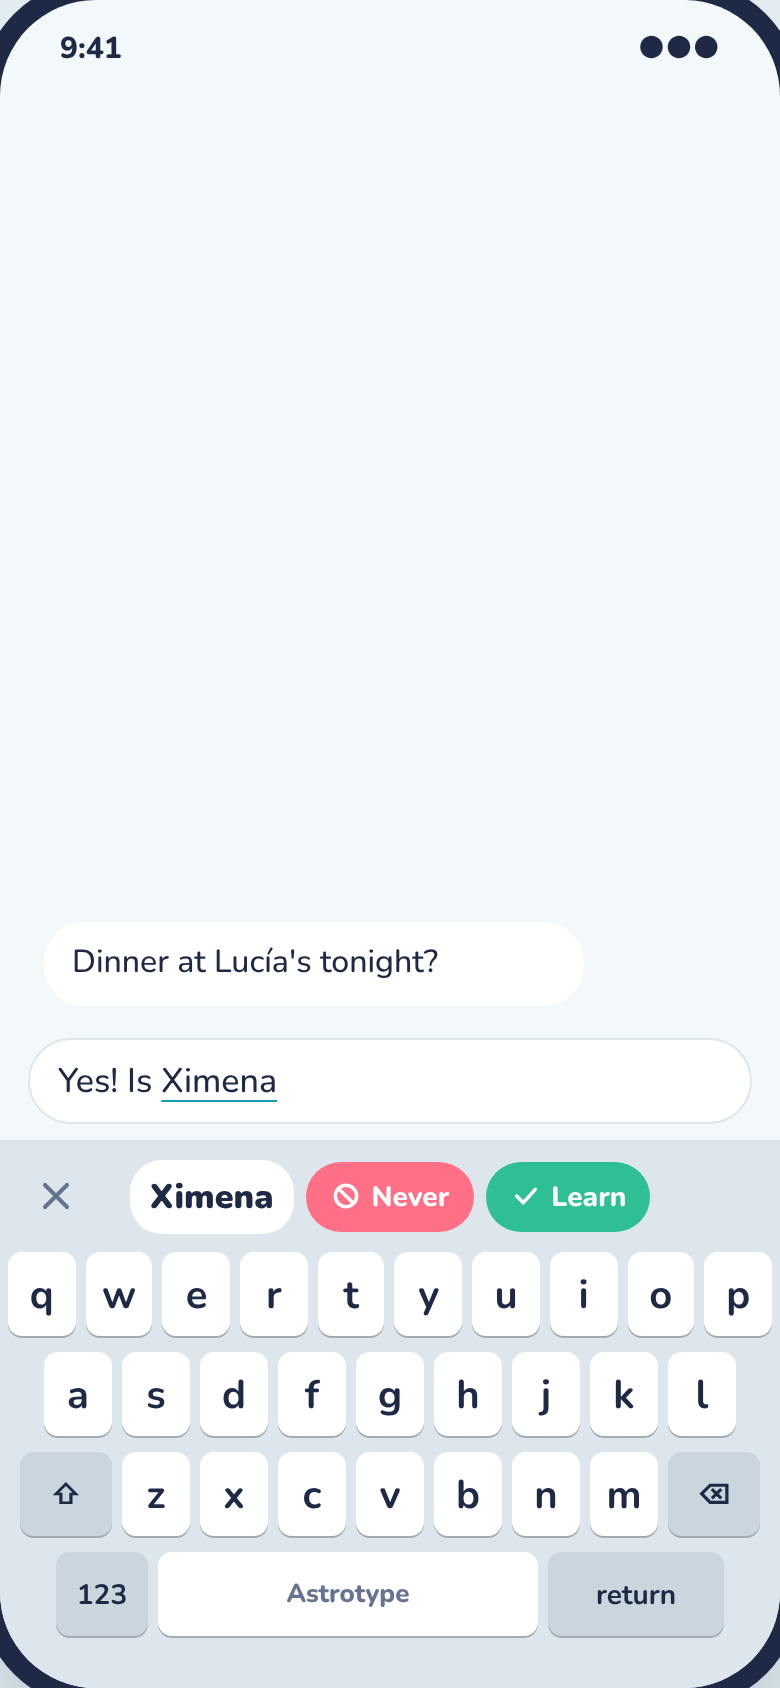
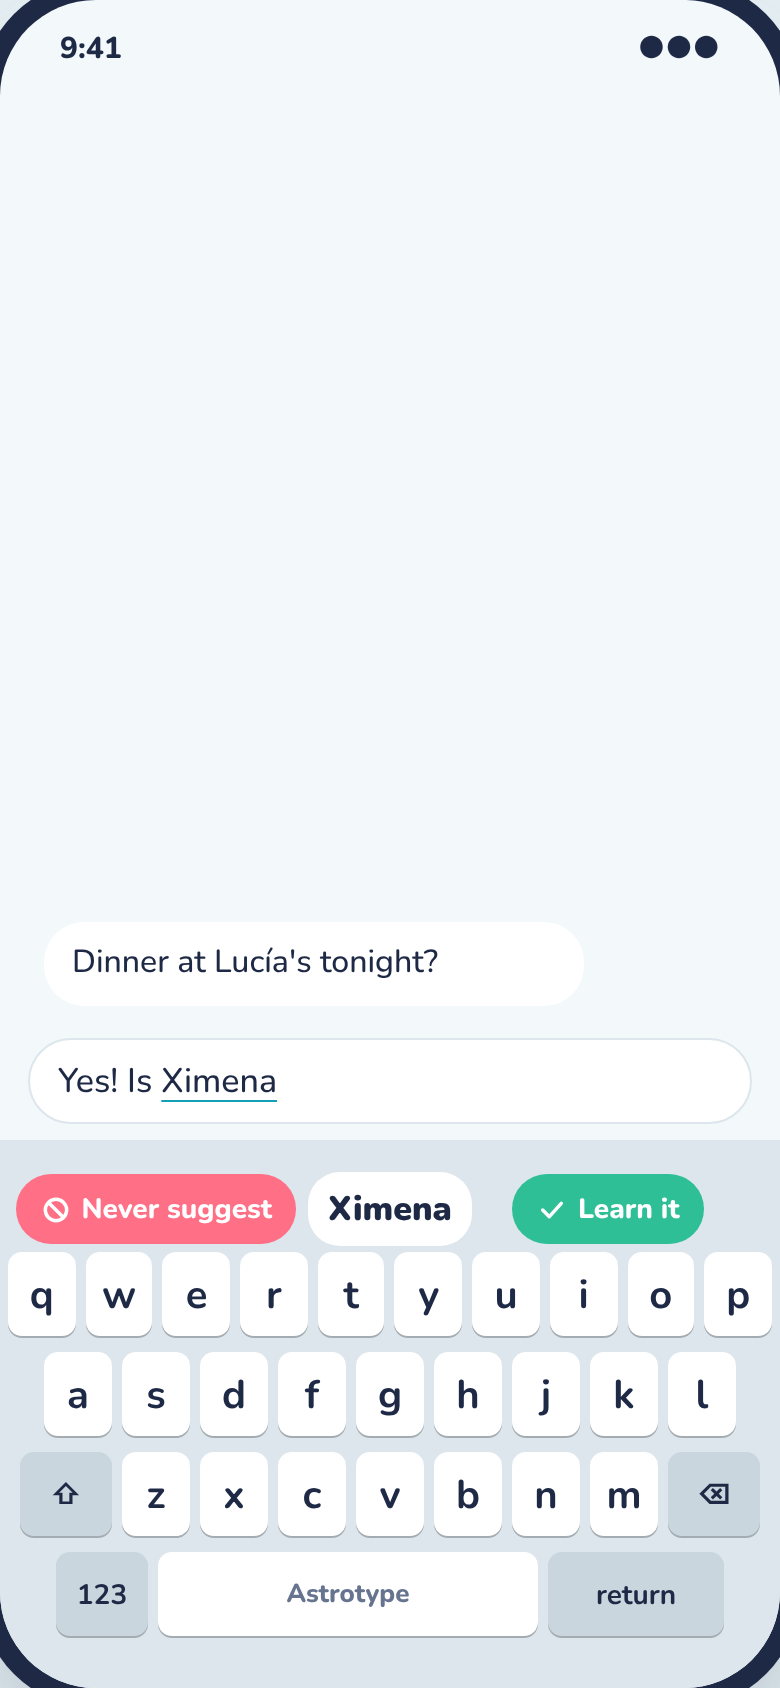
Astrotype word control: menu with the word centred, Never left, More right; plan approved
Claude-Session: https://claude.ai/code/session_01GG78N94JfcrMtKRvAs3BsG

Changed region(s): [[0.0, 0.6777, 0.9231, 0.7393]]

diff --git a/apps/astrotype/features/word-control/design/mockups/word-control.html b/apps/astrotype/features/word-control/design/mockups/word-control.html
@@ -131,8 +131,9 @@ button.r{cursor:pointer}
 .icon{width:40px;height:40px;border:0;background:transparent;border-radius:12px;display:grid;place-items:center;cursor:pointer;color:var(--muted)}
 .icon svg{width:22px;height:22px;stroke:currentColor;fill:none;stroke-width:2.2;stroke-linecap:round;stroke-linejoin:round}
 /* WordMenu (new): the bar while a guess is held */
-.wm{display:flex;align-items:center;gap:6px;min-width:0;justify-content:center;width:100%}
-.wm .word{font-weight:900;font-size:17px;padding:7px 10px;border-radius:16px;background:var(--card);white-space:nowrap;overflow:hidden;text-overflow:ellipsis;flex:0 1 auto;min-width:3.5em;max-width:40%}
+.wm{display:grid;grid-template-columns:minmax(0,1fr) auto minmax(0,1fr);align-items:center;gap:6px;min-width:0;width:100%}
+.wm .side{display:flex;min-width:0}.wm .side.l{justify-content:flex-end}.wm .side.r{justify-content:flex-start}
+.wm .word{border:0;cursor:pointer;color:var(--ink);font-weight:900;font-size:17px;padding:7px 10px;border-radius:16px;background:var(--card);white-space:nowrap;overflow:hidden;text-overflow:ellipsis;flex:0 1 auto;min-width:3.5em;max-width:9em}
 .act{display:inline-flex;align-items:center;gap:5px;border:0;border-radius:999px;font-weight:800;font-size:14px;padding:8px 12px;cursor:pointer;white-space:nowrap;flex:none}
 .act svg{width:16px;height:16px;stroke:currentColor;fill:none;stroke-width:2.6;stroke-linecap:round;stroke-linejoin:round}
 .act.never{background:var(--right);color:var(--accent-ink)}
@@ -206,7 +207,7 @@ const S = {screen:'bar', size:'', anim:true};
 
 const WHY = {
   bar:'Today: the next words after "I\'ll see you at the". Holding a word and sliding up or down already boosts or hides it, but nothing on screen says so.',
-  menu:'Hold any word on the bar (a guess, a next word, or a fix) for a third of a second. The bar turns into the word menu. Tap an action, ✕, or anywhere on the keys to go back. Sliding up or down on the held word still works as a shortcut.',
+  menu:'Hold any word on the bar (a guess, a next word, or a fix) for a third of a second. The bar turns into the word menu: the word stays in the middle, Never suggest on its left, Suggest more on its right. Tap an action; tap the word or any key to go back. Sliding up or down on the held word still works as a shortcut.',
   blocked:'"Never suggest" hides the word from every guess and next word, on all your devices. The bar says what happened for 4 seconds with Undo, then goes back. Tapping out the word letter by letter still types it.',
   learning:'The exact letters you tapped are always on the bar, even at "Words only". Hold them and tap Learn it to teach the word now. A word you tap out and leave in is learned anyway once you move on; one you fix first is not.',
   words:'Your words gets a new "Never suggest" row. The footer says how to teach or block a word.',
@@ -238,9 +239,10 @@ function menu(word, learning){
   const second = learning
     ? `<button class="act more" data-go="bar">${ICON.learn}<span class="long">Learn it</span><span class="short">Learn</span></button>`
     : `<button class="act more" data-go="bar">${ICON.more}<span class="long">Suggest more</span><span class="short">More</span></button>`;
-  return `<div><button class="icon" aria-label="Cancel" data-go="${learning?'learning':'bar'}">${ICON.close}</button></div>
-    <div class="center"><div class="wm anim${word.length>5?' tight':''}"><span class="word">${esc(word)}</span>
-      <button class="act never" data-go="blocked">${ICON.never}<span class="long">Never suggest</span><span class="short">Never</span></button>${second}</div></div><div></div>`;
+  return `<div class="center" style="grid-column:1/-1"><div class="wm anim${word.length>7?' tight':''}">
+      <span class="side l"><button class="act never" data-go="blocked">${ICON.never}<span class="long">Never suggest</span><span class="short">Never</span></button></span>
+      <button class="word" data-go="${learning?'learning':'bar'}" aria-label="Cancel, keep ${esc(word)} as it is">${esc(word)}</button>
+      <span class="side r">${second}</span></div></div>`;
 }
 
 const SCREENS = {

diff --git a/apps/astrotype/features/word-control/FEATURE.md b/apps/astrotype/features/word-control/FEATURE.md
@@ -6,7 +6,7 @@ one-off typos stop piling up as "words".
 
 ## Product
 
-Status: Draft
+Status: Approved 2026-11-07 (Gabriel: "Build it", in the project thread)
 
 - **The problem** (Gabriel, 7 Nov 2026):
   - Keeping to known words ("Real words" near "Words only") works well, so the words
@@ -25,8 +25,9 @@ Status: Draft
   guess annoys you). The lists are powerful.
 - **How it works:**
   - **Hold a word on the bar** (a guess, a next word, or a fix reading) for a third of
-    a second. The bar turns into the **word menu**: ✕, the word, **Never suggest** and
-    **Suggest more**. For a word it doesn't know yet (the letters you just pecked out),
+    a second. The bar turns into the **word menu**: the word in the middle,
+    **Never suggest** on its left and **Suggest more** on its right.
+    (Gabriel, 7 Nov 2026). For a word it doesn't know yet (the letters you just pecked out),
     the second button reads **Learn it**.
     - *Never suggest:* the word is never offered again as a guess, a fix or a next
       word, on any of your devices. The bar says "Won't suggest “end”" with **Undo**
@@ -35,7 +36,8 @@ Status: Draft
     - *Suggest more / Learn it:* the word is learned now and ranked
       higher, as a boost from the slide does today. The bar says "Will suggest
       “Ximena” more" with Undo.
-    - ✕, a key, or 4 seconds with no touch closes the menu with nothing changed.
+    - Tapping the word, a key, or 4 seconds with no touch closes the menu with nothing
+      changed.
     - Sliding up or down on the held word still works, as a shortcut.
   - **Learning keeps what you meant, not what you fixed.** A word you peck out that
     the dictionary doesn't know is still learned the first time (Gabriel, 7 Nov 2026:
@@ -83,7 +85,7 @@ Status: Draft
 
 ## Design
 
-Status: Draft
+Status: Approved 2026-11-07 (Gabriel: "Build it", in the project thread)
 
 - **Mockups:** `design/mockups/word-control.html` (Artifact: https://claude.ai/artifact/P8xuLiKGC4tuKJrfxkUTRT). Screens:
   guesses as today, the hold menu, after Never suggest, Learn it on a new word,
@@ -92,9 +94,9 @@ Status: Draft
 - **Keyboard:**
   - Today (`design/screens/bar.png`) → hold (`menu.png`, `menu-dark.png`) → blocked
     (`blocked.png`). Learn it on letters it doesn't know: `learning.png`.
-  - The menu takes the bar's whole width, like the fix row: ✕ in the left slot, then
-    the word in its pill, then the two actions. The right slot (the pencil) is empty
-    while it's open.
+  - The menu takes the bar's whole width, side slots included (no ✕: the word itself
+    cancels): the word in its pill in the centre, Never suggest left of it, Suggest more (or Learn it)
+    right of it, each action sized to its label so the word stays dead centre.
   - When the word plus both full labels don't fit (long words, the small phone:
     `menu-small.png`), the labels shorten to **Never** / **More** / **Learn**, keeping
     their icons. The word truncates last, with an ellipsis in the middle at most.
@@ -132,7 +134,7 @@ Status: Draft
 
 ## Build
 
-Status: Draft
+Status: Approved 2026-11-07 (Gabriel: "Build it", in the project thread)
 
 - **Approach:** everything already lives in `LearnedWords` (weight, uses, added,
   changed, merged per word across devices by the later change). A blocked word is
